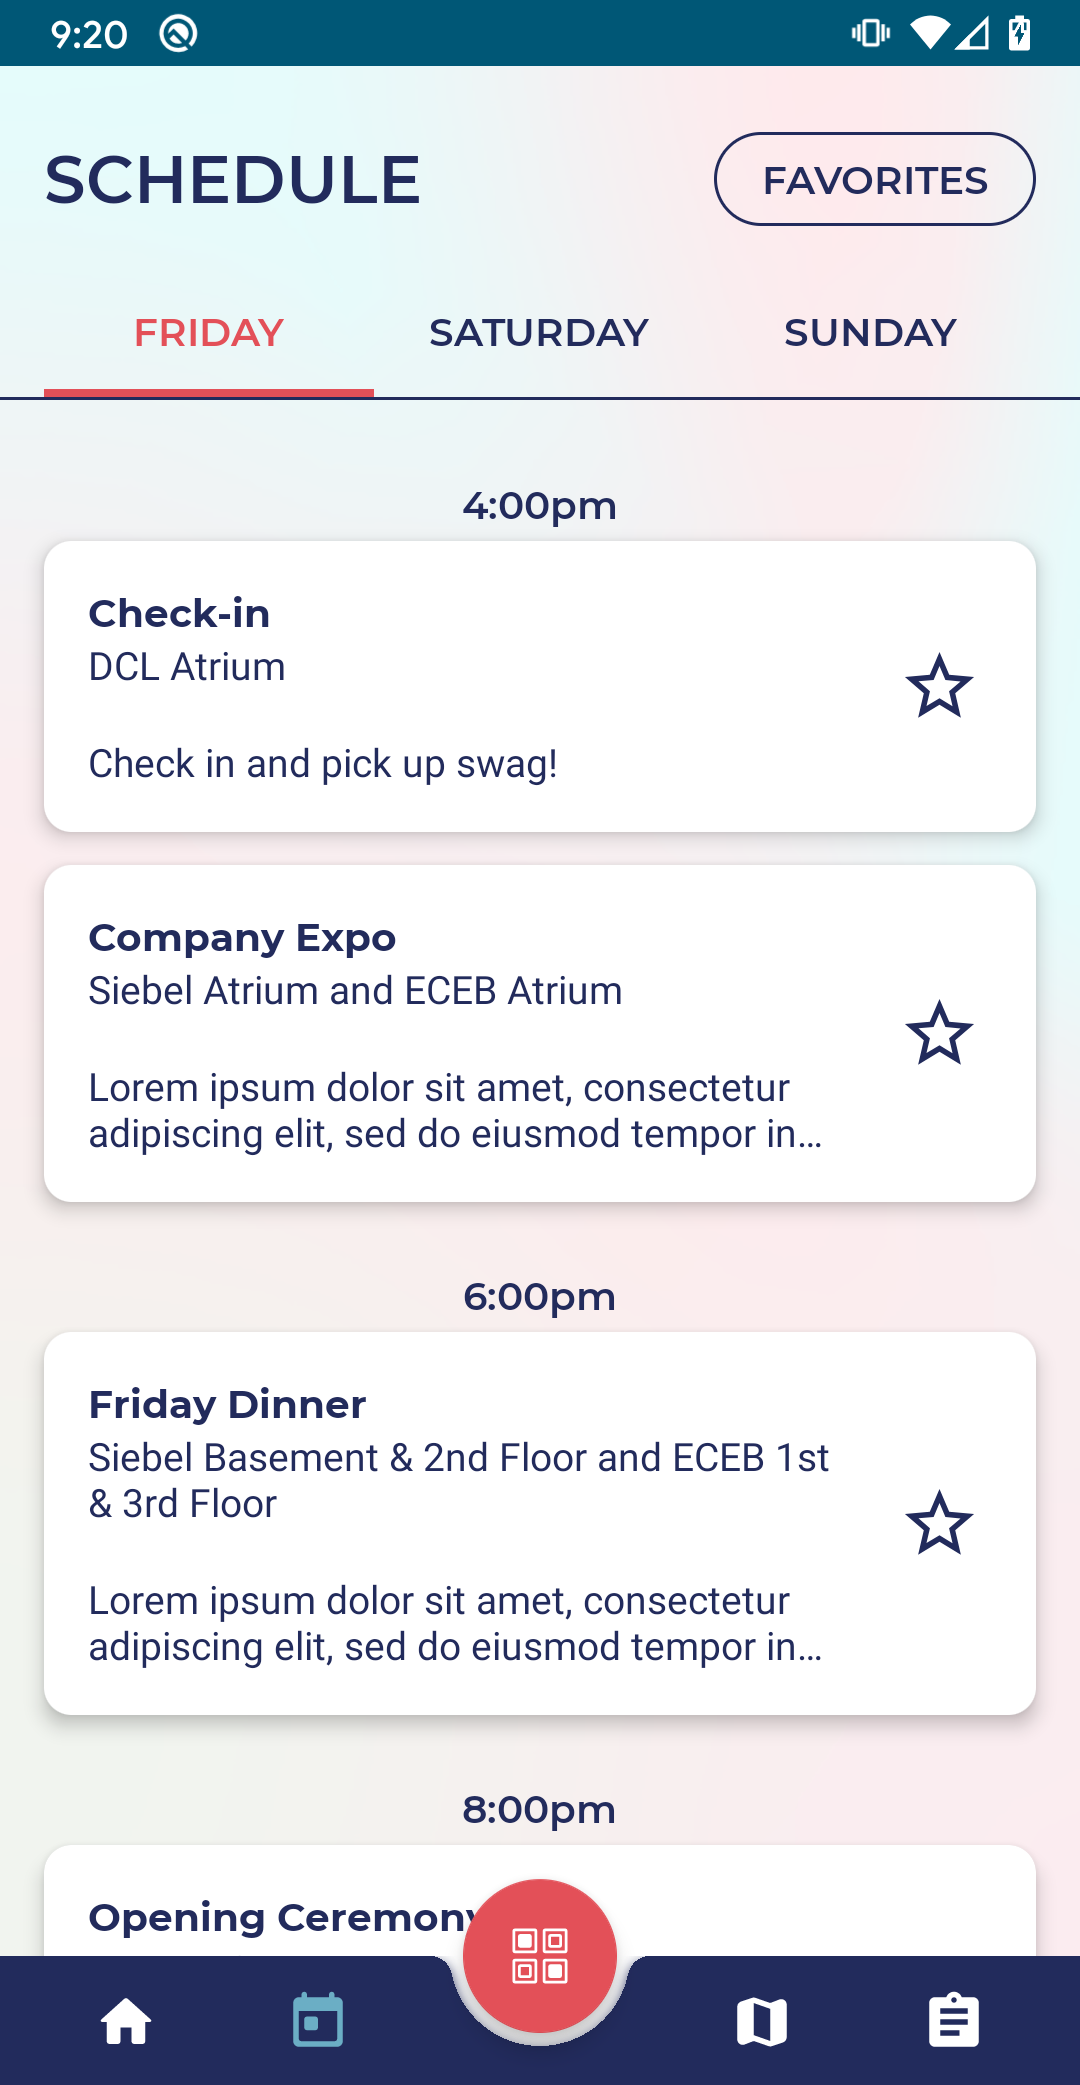
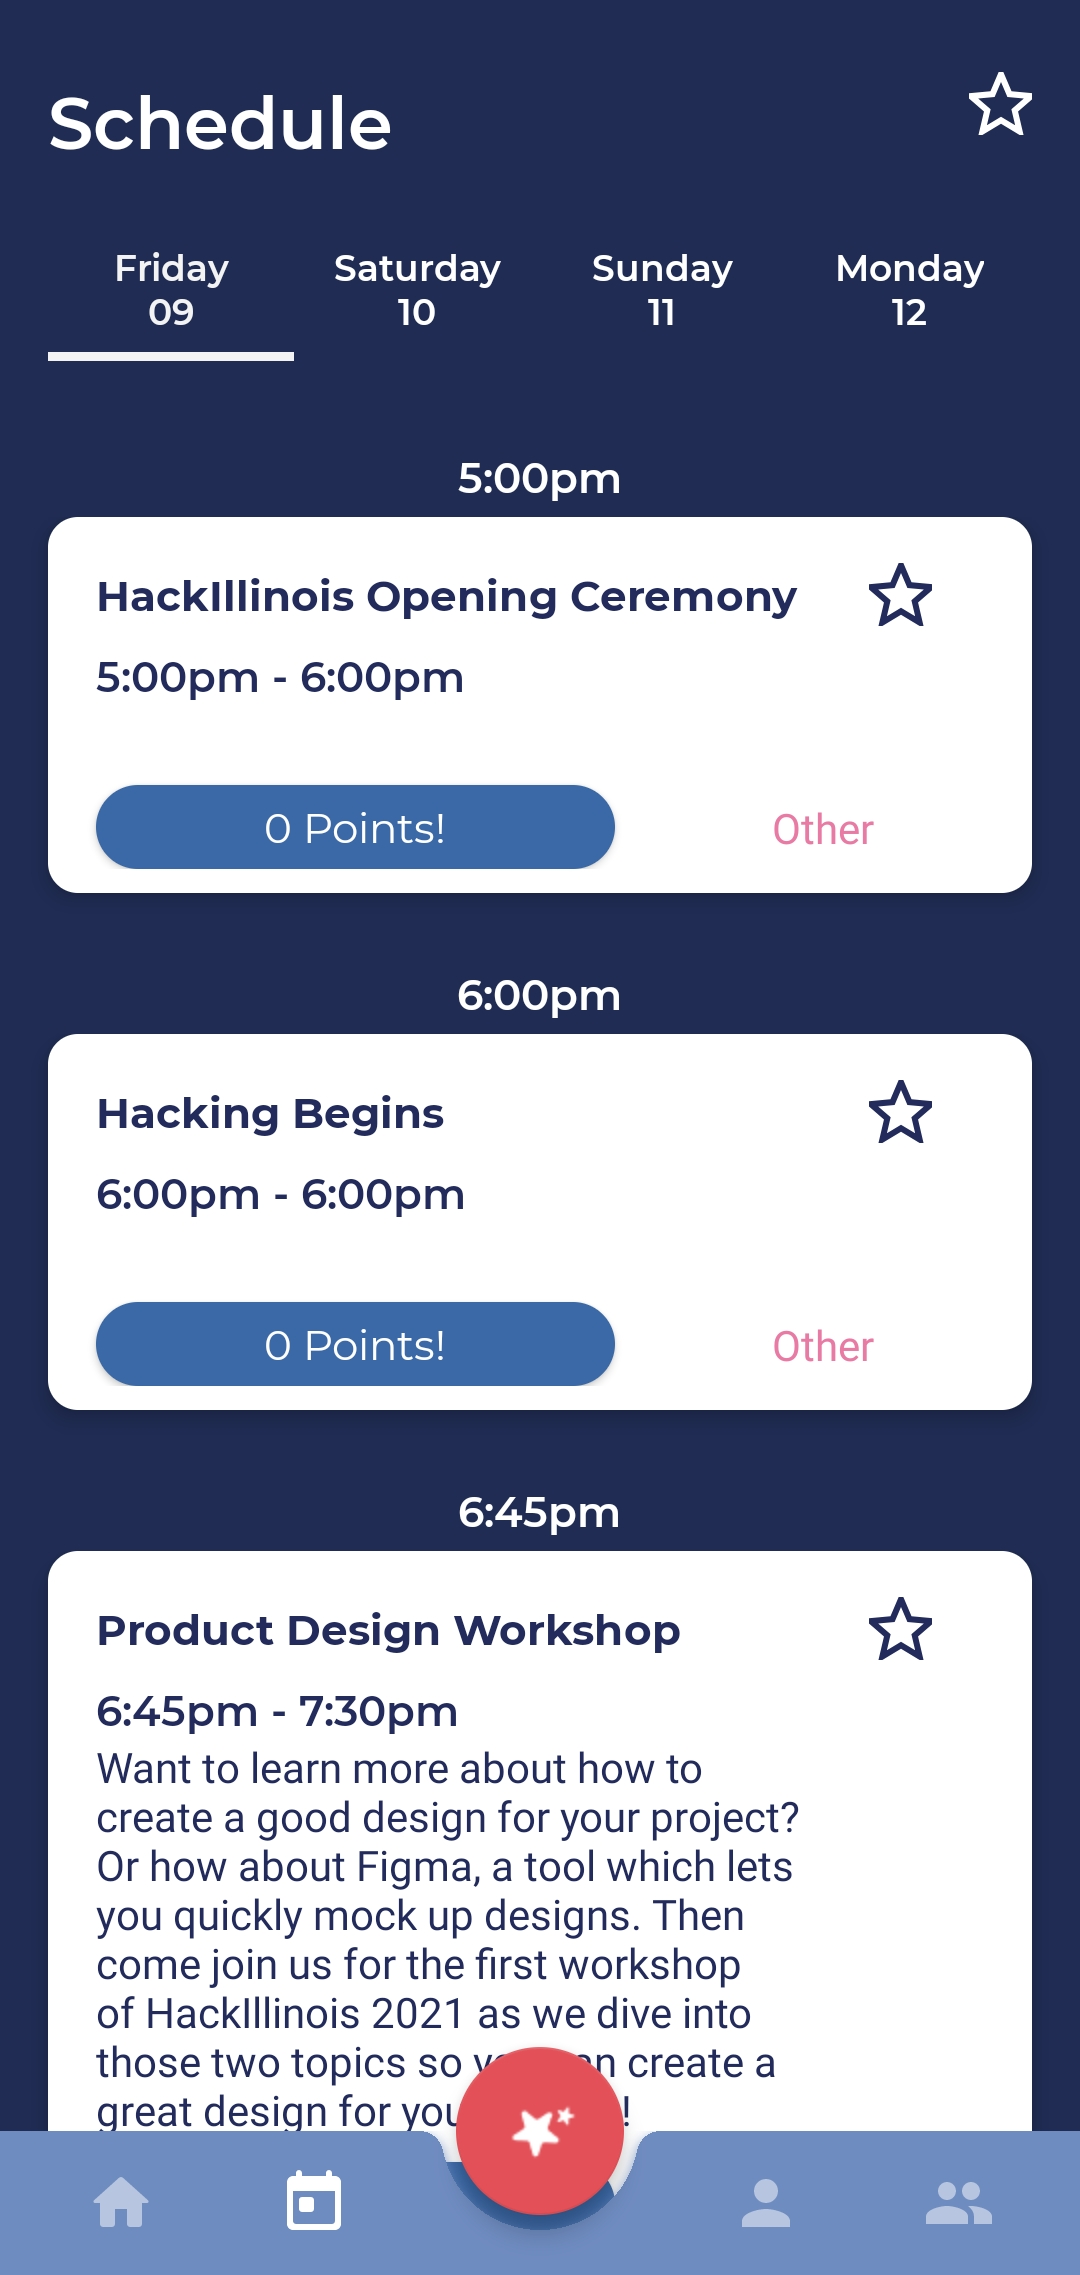
update screenshots (#348)
Update readme & screenshots

diff --git a/app/src/main/java/org/hackillinois/android/view/profile/ProfileFragment.kt b/app/src/main/java/org/hackillinois/android/view/profile/ProfileFragment.kt
@@ -61,7 +61,7 @@ class ProfileFragment : Fragment() {
 
     override fun onCreateView(inflater: LayoutInflater, container: ViewGroup?, savedInstanceState: Bundle?): View? {
         if (!hasLoggedIn()) {
-            val view = inflater.inflate(R.layout.fragment_groupmatching_not_logged_in, container, false)
+            val view = inflater.inflate(R.layout.fragment_profile_not_logged_in, container, false)
             val logoutButton = view.findViewById<Button>(R.id.logout_button)
             logoutButton.setOnClickListener {
                 val mainActivity: MainActivity = requireActivity() as MainActivity

diff --git a/README.md b/README.md
@@ -1,7 +1,7 @@
 # The Official HackIllinois Android App
 [![Build Status](https://github.com/hackillinois/android/workflows/CI/badge.svg)](https://github.com/HackIllinois/android/actions)
 
-<img src="screenshots/home.png" width="170"/> <img src="screenshots/schedule.png" width="170"/> <img src="screenshots/indoor-maps.png" width="170"/> <img src="screenshots/projects.png" width="170"/>
+<img src="screenshots/login.png" width="170"/><img src="screenshots/home.png" width="170"/> <img src="screenshots/collect-points.png" width="170"/><img src="screenshots/schedule.png" width="170"/> <img src="screenshots/profile-notloggedin.png" width="170"/><img src="screenshots/sample-profile.png" width="170"/> <img src="screenshots/profile-matching.png" width="170"/>
 
 [<img src="https://play.google.com/intl/en_us/badges/images/generic/en_badge_web_generic.png" alt="Download from Google Play" height="80">](https://play.google.com/store/apps/details?id=org.hackillinois.android.release)
 
